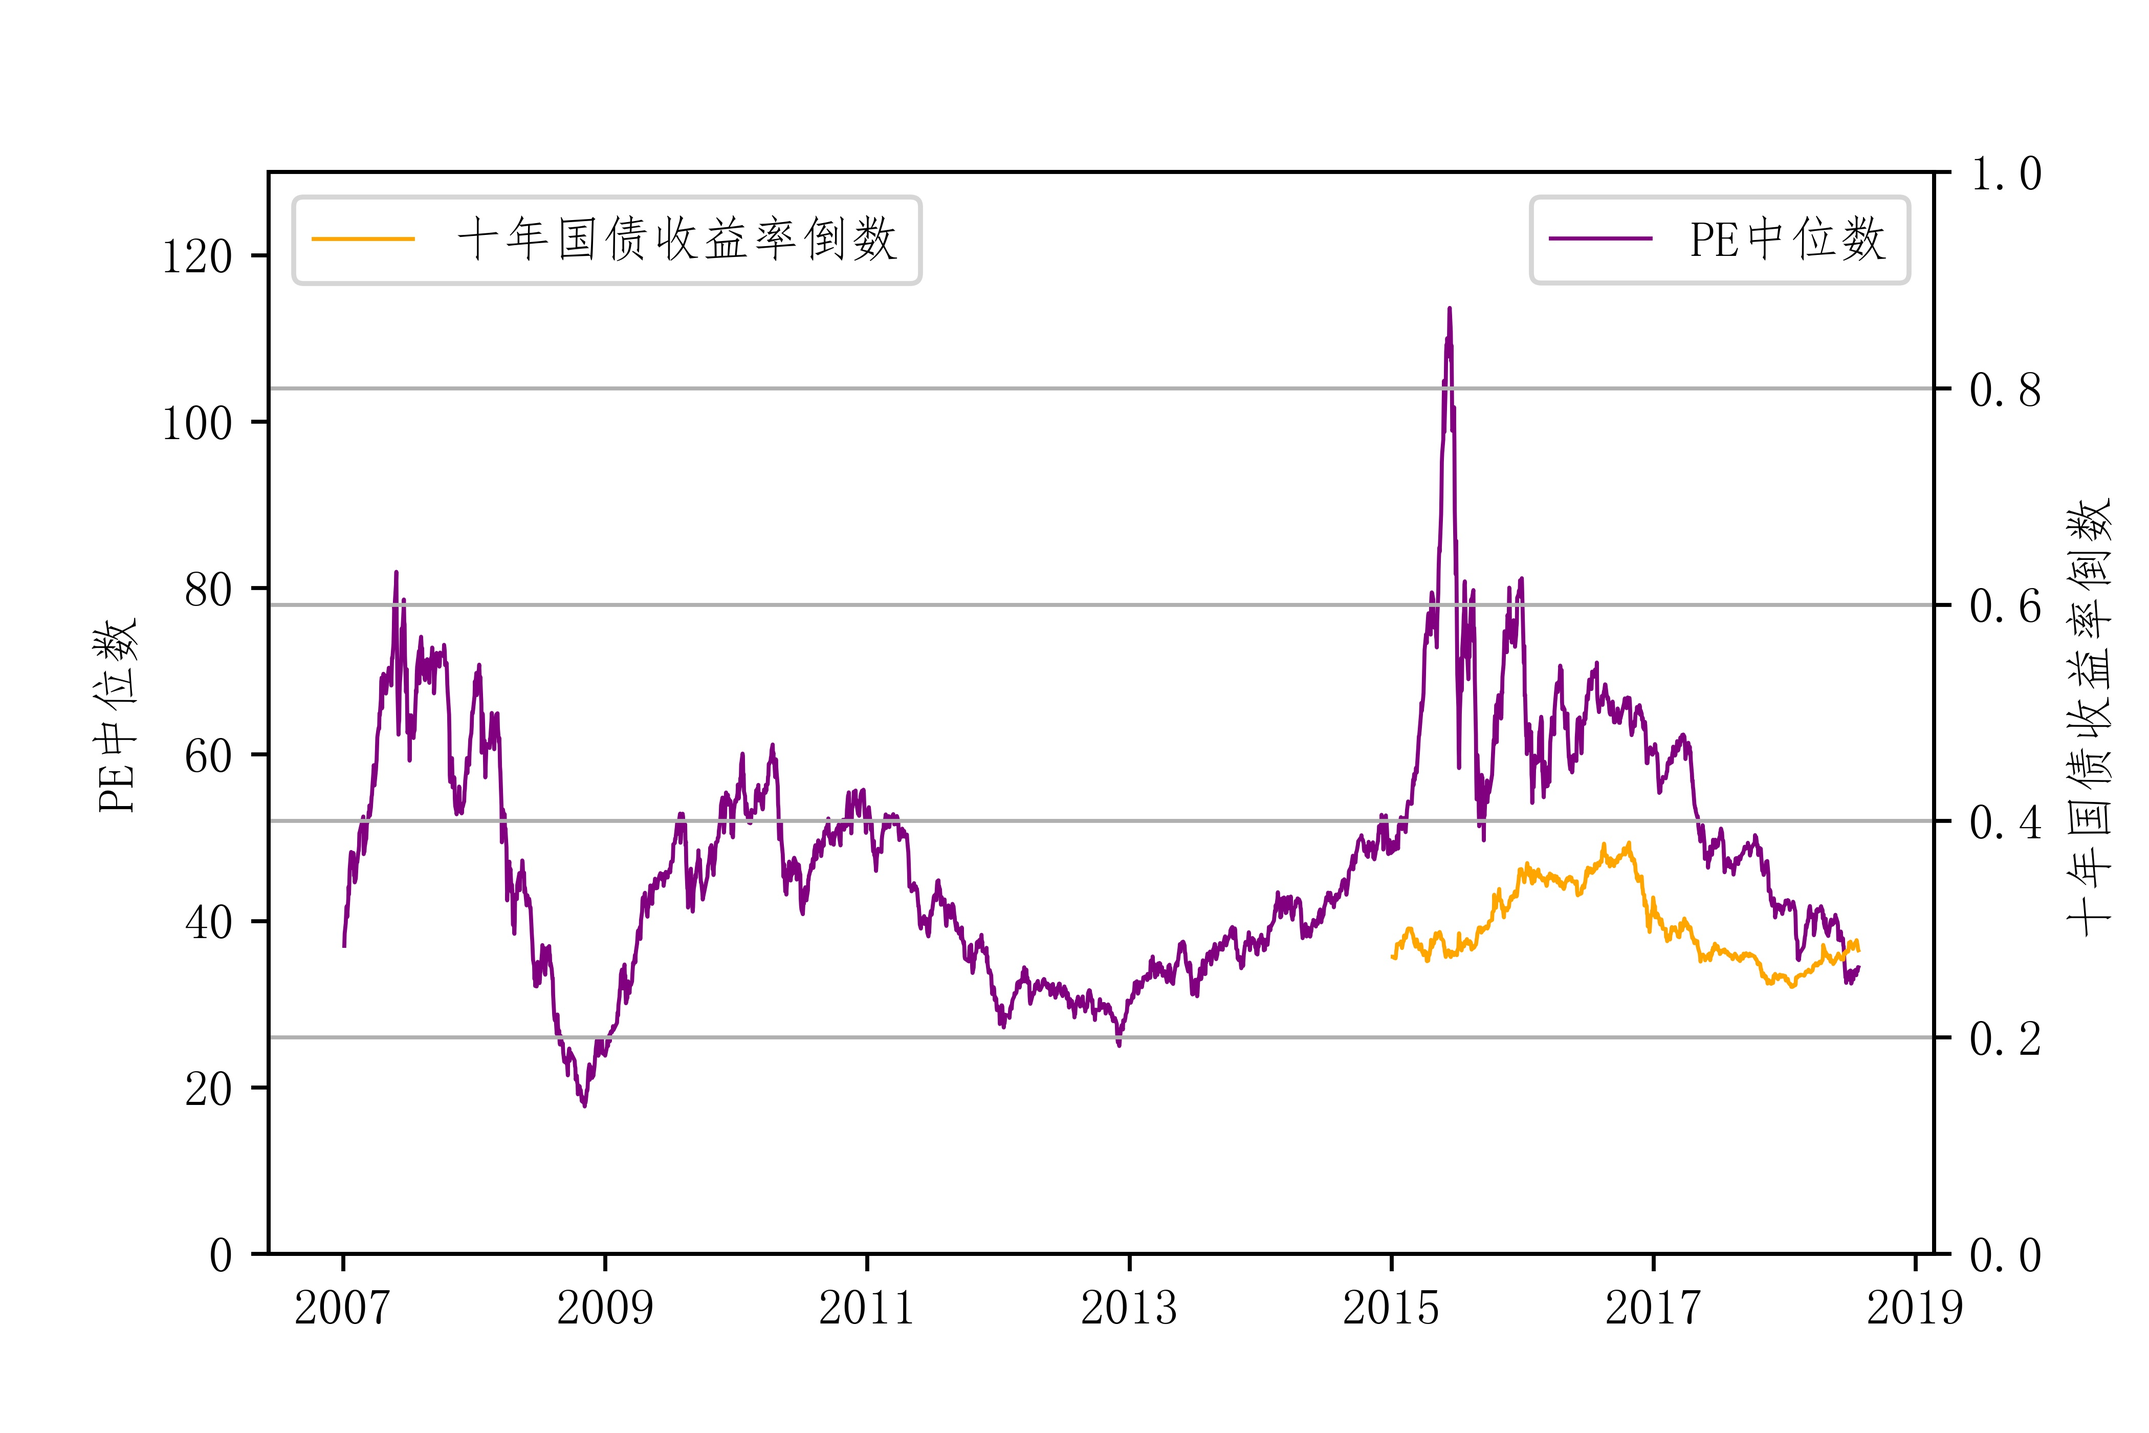
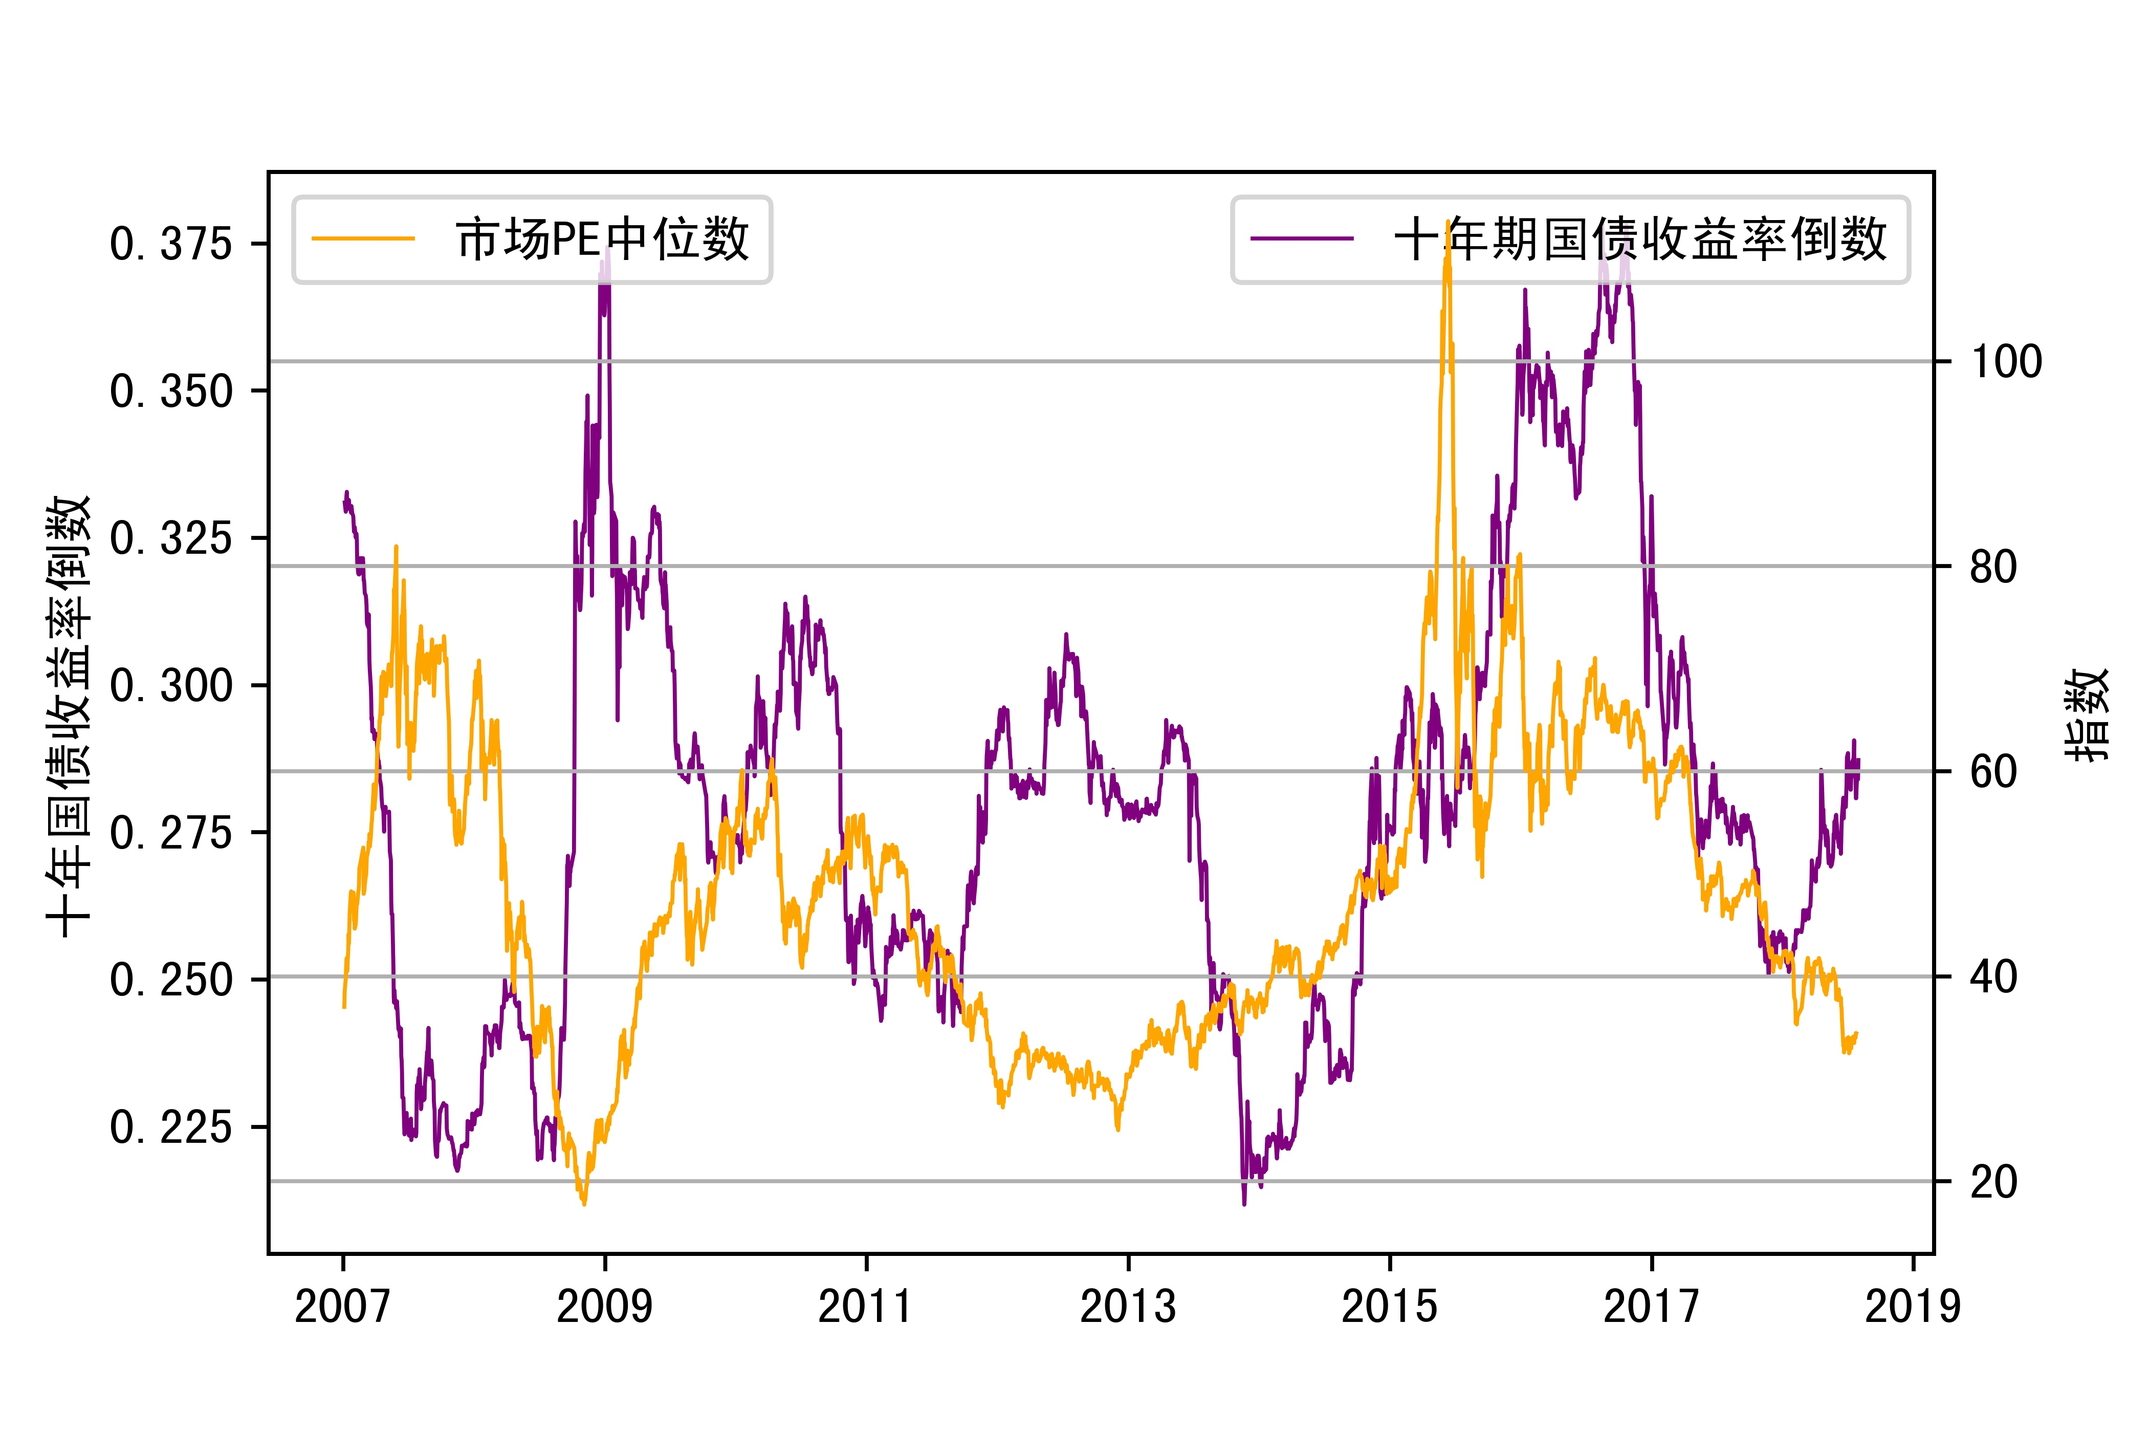
new

diff --git a/Bottom.py b/Bottom.py
@@ -16,20 +16,22 @@ from matplotlib.font_manager import _rebuild
 _rebuild()
 plt.rcParams['font.sans-serif'] = ['SimHei'] 
 plt.rcParams['axes.unicode_minus'] = False 
+
 '''
 from WindPy import * 
 w.start()
+#十年国债到期收益率
 nationbonds = w.edb("M0325687", "2007-01-04", "2018-07-30")
 w.close()
 '''
 
 # 导入数据
-price_data = pd.read_pickle('/Users/trevor/Downloads/price.pkl')
-indicator_data = pd.read_pickle('/Users/trevor/Downloads/indicator.pkl')
-market_index = pd.read_excel('/Users/trevor/Downloads/市场底部特征研究.xlsx',sheet_name='沪深300')
-M2_data = pd.read_excel('/Users/trevor/Downloads/M2指标.xlsx')
-IPO_data = pd.read_excel('/Users/trevor/Downloads/A股上市时间.xlsx')
-amount_data = pd.read_csv('/Users/trevor/Downloads/eodprices.csv')
+price_data = pd.read_pickle('/Users/trevor/Downloads/市场底部研究数据/price.pkl')
+indicator_data = pd.read_pickle('/Users/trevor/Downloads/市场底部研究数据/indicator.pkl')
+market_index = pd.read_excel('/Users/trevor/Downloads/市场底部研究数据/市场底部特征研究.xlsx',sheet_name='沪深300')
+M2_data = pd.read_excel('/Users/trevor/Downloads/市场底部研究数据/M2指标.xlsx')
+IPO_data = pd.read_excel('/Users/trevor/Downloads/市场底部研究数据/A股上市时间.xlsx')
+amount_data = pd.read_csv('/Users/trevor/Downloads/市场底部研究数据/eodprices.csv')
 
 ###############################################################################
 '''
@@ -40,6 +42,8 @@ finance_data = pd.merge(price_data,indicator_data,on=['S_INFO_WINDCODE','TRADE_D
 amount_data['TRADE_DT'] = amount_data['TRADE_DT'].apply(lambda x:str(x))
 finance_data = pd.merge(finance_data,amount_data,how='left',on=['S_INFO_WINDCODE','TRADE_DT'])
 
+# finance_data 所有数据
+
 #提取日收盘价
 stock_close_data = pd.pivot_table(finance_data,values='S_DQ_CLOSE',index='S_INFO_WINDCODE',columns='TRADE_DT')                   
 stock_close_data = stock_close_data.sort_index(axis=1)
@@ -47,17 +51,48 @@ stock_close_data.columns = pd.DatetimeIndex(stock_close_data.columns)
 stock_close_number = stock_close_data.count(axis=0)
 
 
+#绘图函数
+
+def Plot_Stock(data_a,data_b,label_a,label_name):
+    # c,d为调整系数，是上证综指和深证成指头部对齐
+    c = market_index.iloc[0,-1]
+    d = market_index.iloc[2,-1]
+    
+    fig = plt.figure()
+    ax1 = fig.add_subplot(111)
+    ax1.grid(False)
+    ax1.bar(data_a.index,data_a,width=3.5,linewidth=3,color='yellowgreen',label=label_a,zorder=1)
+    ax1.set_ylabel(label_name)
+    ax1.legend(loc='upper right')
+    
+    ax2 = ax1.twinx()
+    ax2.grid(True)
+    ax2.plot(data_b.columns,data_b.iloc[0,:],color='red',linewidth=0.8,label='上证综指',zorder=5)
+    ax2.plot(data_b.columns,data_b.iloc[2,:]*c/d,color='blue',linewidth=0.8,label='深证成指',zorder=6)
+    ax2.set_ylabel('指数')
+    ax2.set_ylim(0,7000)
+    ax2.legend(loc='upper left')
+    ax2.set_xlabel('时间')
+    plt.savefig(label_name+'.jpg',dpi=700)
+
+
+
+
 ###############################################################################
 '''
 1.低价股比例
 '''
 #筛选出低价股
-low_price=2
+low_price=2 #低价股标准
 low_price_data = stock_close_data[stock_close_data<low_price]
 #低价股数量
 low_price_number = low_price_data.count(axis=0)
-low_price_percent = low_price_number/stock_close_number
-low_price_percent.index = pd.DatetimeIndex(low_price_percent.index)
+low_price_percent = low_price_number/stock_close_number*100
+low_price_percent.index = pd.DatetimeIndex(low_price_percent.index) # pd.Series
+
+#绘图
+Plot_Stock(data_a=low_price_percent,data_b=market_index,label_a='低价股比例',label_name='全市场低价股占比')
+
 
 ###############################################################################
 '''
@@ -75,6 +110,10 @@ low_PB_number = low_PB_data.count(axis=0)
 low_PB_percent = low_PB_number/stock_PB_number*100
 low_PB_percent.index = pd.DatetimeIndex(low_PB_percent.index)
 
+#绘图
+Plot_Stock(data_a=low_PB_percent,data_b=market_index,label_a='破净股比例',label_name='全市场破净股比例')
+
+
 
 ###############################################################################
 '''
@@ -84,23 +123,43 @@ low_PB_percent.index = pd.DatetimeIndex(low_PB_percent.index)
 M2_data.set_index('指标名称',inplace=True)
 M2_data = M2_data.drop('频率',axis=1)
 M2_data = M2_data.T
+M2_data.index = pd.DatetimeIndex(M2_data.index)
 
 #提取市值数据
 market_value_data = pd.pivot_table(finance_data,values='S_VAL_MV',index='S_INFO_WINDCODE',columns='TRADE_DT')
 market_value_data = market_value_data.sort_index(axis=1)
 market_value_median = market_value_data.median(axis=0)
 
+#将市值数据调整为月度数据
 market_value_median = market_value_median.reset_index()
 market_value_median['MONTH'] = market_value_median['TRADE_DT'].apply(lambda x:x[:6])
 market_value_median = pd.merge(market_value_median.groupby(['MONTH'])['TRADE_DT'].max().reset_index(),market_value_median,on=['TRADE_DT'],how='left')
 market_value_median.drop(['MONTH_x','MONTH_y'],axis=1,inplace=True)
+market_value_median.columns = ['TRADE_DT','PE_MEDIAN']
+market_value_median = market_value_median.set_index('TRADE_DT')
+market_value_median.index = pd.DatetimeIndex(market_value_median.index)
 
-temp_median = market_value_median.drop(138,axis=0)
-temp_M2 = M2_data.reset_index()
-temp_median.drop('TRADE_DT',axis=1,inplace=True)
-temp_M2.drop('index',axis=1,inplace=True)
 
-M2_MV_ratio = temp_M2.values/temp_median.values
+assert len(M2_data) == len(market_value_median[:-1])
+M2_MV_ratio = M2_data.values/market_value_median.values[:-1]
+
+
+fig = plt.figure()
+ax1 = fig.add_subplot(111)
+ax1.grid(False)
+ax1.plot(market_value_median.index,market_value_median, color='purple',linewidth=0.8,label='总市值中位数',zorder=3)
+ax1.set_ylabel('总市值中位数')
+ax1.legend(loc='upper right')
+
+ax2 = ax1.twinx()
+ax2.grid(True)
+ax2.plot(market_value_median.index[:-1],M2_MV_ratio,color='orange',linewidth=0.8,label='M2/总市值中位数',zorder=4)
+ax2.set_ylabel('M2/总市值中位数')
+ax2.legend(loc='upper left')
+ax2.set_xlabel('时间')
+plt.savefig('M2_总市值中位数.jpg',dpi=700)
+
+
 ###############################################################################
 '''
 4.PE中位数&十年国债收益率倒数
@@ -112,12 +171,59 @@ stock_PE_data = stock_PE_data.sort_index(axis=1)
 stock_PE_data.columns = pd.DatetimeIndex(stock_PE_data.columns)
 stock_PE_median = stock_PE_data.median(axis=0)
 stock_PE_median.index = pd.DatetimeIndex(stock_PE_median.index)
-stock_PE_average = stock_PE_data.mean(axis=0)
-stock_PE_average.index = pd.DatetimeIndex(stock_PE_average.index)
 
 #十年国债收益率
+'''
 nationbonds_interest = pd.Series(np.array(nationbonds.Data).reshape(-1),index=nationbonds.Times)
 nationbonds_interest.index = pd.DatetimeIndex(nationbonds_interest.index)
+'''
+nationbonds_interest = pd.read_csv('/Users/trevor/Downloads/十年期国债.csv')
+nationbonds_interest.columns = ['S_INFO_WINDCODE','INTEREST']
+nationbonds_interest = nationbonds_interest.set_index('S_INFO_WINDCODE')
+nationbonds_interest.index = pd.DatetimeIndex(nationbonds_interest.index)
+
+
+fig = plt.figure()
+ax1 = fig.add_subplot(111)
+ax1.grid(False)
+ax1.plot(stock_PE_median.index,stock_PE_median, color='purple',linewidth=0.8,label='市场PE中位数',zorder=3)
+ax1.set_ylabel('市场PE中位数')
+ax1.legend(loc='upper right')
+
+ax2 = ax1.twinx()
+ax2.grid(True)
+ax2.plot(nationbonds_interest.index,nationbonds_interest,color='orange',linewidth=0.8,label='十年期国债收益率倒数',zorder=4)
+ax2.set_ylabel('十年期国债收益率倒数')
+ax2.legend(loc='upper left')
+ax2.set_xlabel('时间')
+plt.savefig('PE中位数和十年国债收益率倒数的⽐较.jpg',dpi=700)
+
+###############################################################################
+
+def Plot_Volume(data_a,data_b,index_data,label_a,label_b,label_name):
+    a = data_a.values[0]
+    b = data_b.values[0]
+    
+    c = market_index.iloc[0,-1]
+    d = market_index.iloc[2,-1]
+    
+    fig = plt.figure()
+    ax1 = fig.add_subplot(111)
+    ax1.grid(False)
+    ax1.bar(data_a.index,data_a*1.3*b/a,width=3.5,linewidth=0.8,color='yellowgreen',label=label_a,zorder=1)
+    ax1.bar(data_b.index,data_b,width=3.5,linewidth=0.8,color='orange',label=label_b,zorder=2)
+    ax1.set_ylabel(label_name)
+    ax1.legend(loc='upper right')
+    
+    ax2 = ax1.twinx()
+    ax2.grid(True)
+    ax2.plot(index_data.columns,index_data.iloc[0,:],color='red',linewidth=0.8,label='上证综指',zorder=5)
+    ax2.plot(index_data.columns,index_data.iloc[2,:]*c/d,color='blue',linewidth=0.8,label='深证成指',zorder=6)
+    ax2.set_ylabel('指数')
+    ax2.set_ylim(0,7000)
+    ax2.legend(loc='upper left')
+    ax2.set_xlabel('时间')
+    plt.savefig(label_name+'.jpg',dpi=700)
 
 ###############################################################################
 '''
@@ -136,9 +242,13 @@ total_volume.index = pd.DatetimeIndex(total_volume.index)
 total_amount = stock_amount_data.sum(axis=0)
 total_amount.index = pd.DatetimeIndex(total_amount.index)
 
+#绘图
+Plot_Volume(data_a=total_amount,data_b=total_volume,index_data=market_index,label_a='市场总成交额',label_b='市场总成交量',label_name='市场成交量&成交额')
+
+
 ###############################################################################
 '''
-6.个股成交额&成交量（个股流动性）
+6.个股低成交额&成交量占比（个股流动性）
 '''
 #筛选低成交量&成交额个股
 low_volume = 1000 #(手)
@@ -152,6 +262,10 @@ low_amount_stock = stock_amount_data[stock_amount_data<low_amount]
 low_amount_number = low_amount_stock.count(axis=0)
 low_amount_percent = low_amount_number/stock_close_number
 low_amount_percent.index = pd.DatetimeIndex(low_amount_percent.index)
+
+#绘图
+Plot_Volume(data_a=low_amount_percent,data_b=low_volume_percent,index_data=market_index,label_a='低成交额个股占比',label_b='低成交量个股占比',label_name='低成交量&成交额股票占比')
+
 
 ###############################################################################
 '''
@@ -183,12 +297,36 @@ high = price_max[index_max<index_min]
 low = price_min[index_max<index_min]
 decline_percent = (high - low)/high
 decline_median = decline_percent.median(axis=0)
-decline_median.index = pd.DatetimeIndex(start='2006-12-30',end='2018-07-01',freq='M')
+decline_median.index = pd.DatetimeIndex(start='2007-01-01',end='2018-08-01',freq='M')
+
+
+#绘图
+c = market_index.iloc[0,-1]
+d = market_index.iloc[2,-1]
+
+#assert stock_close_data.columns.shape==lower_ipo_percent.shape
+fig = plt.figure()
+ax1 = fig.add_subplot(111)
+ax1.grid(False)
+ax1.bar(decline_median.index,decline_median,width=14,linewidth=10,color='yellowgreen',label='个股最大跌幅中位数',zorder=1)
+ax1.set_ylabel('个股最大跌幅中位数')#低成交额占比(小于100W)
+ax1.legend(loc='upper right')
+
+ax2 = ax1.twinx()
+ax2.grid(True)
+ax2.plot(market_index.columns,market_index.iloc[0,:],color='red',linewidth=0.8,label='上证综指',zorder=5)
+ax2.plot(market_index.columns,market_index.iloc[2,:]*c/d,color='blue',linewidth=0.8,label='深证成指',zorder=6)
+ax2.set_ylabel('指数')
+ax2.set_ylim(0,7000)
+ax2.legend(loc='upper left')
+ax2.set_xlabel('时间')
+plt.savefig('个股单月最大跌幅中位数.jpg',dpi=700)
+
 
 
 ###############################################################################
 '''
-8.次新股(上市四个月内)PE（市场人气）
+8.次新股(上市一年内)PE（市场人气）
 '''
 #获取所有股票发行价格和发行时间
 IPO_data['IPO_DATE'] = pd.DatetimeIndex(IPO_data['IPO_DATE'])
@@ -202,9 +340,8 @@ for day in stock_close_data.columns:
 
 subnew_number = subnew_stock.count(axis=0)
 
-
+#计算次新股PE中位数
 subnew_PE_median = []
-subnew_PE_average = []
 for day in stock_close_data.columns:
     temp_PE = stock_PE_data[day].reset_index()
     temp_PE.columns=['S_INFO_WINDCODE','PE']
@@ -212,16 +349,36 @@ for day in stock_close_data.columns:
     temp_subnew.columns = ['S_INFO_WINDCODE']
     pe = pd.merge(temp_subnew,temp_PE,how='left',on='S_INFO_WINDCODE')
     subnew_PE_median.append(pe.iloc[:,-1].median(axis=0))
-    subnew_PE_average.append(pe.iloc[:,-1].mean(axis=0))
-    
-subnew_PE_median = np.array(subnew_PE_median)
-subnew_PE_average = np.array(subnew_PE_average)
 
+#次新股PE中位数    
+subnew_PE_median = np.array(subnew_PE_median)
+subnew_PE_median = pd.Series(subnew_PE_median,index=stock_PE_median.index)
+
+#次新股PE溢价
 differences_PE_median = subnew_PE_median-stock_PE_median.values
-differences_PE_average = subnew_PE_average-stock_PE_average.values
+
+
+fig = plt.figure()
+ax1 = fig.add_subplot(111)
+ax1.grid(False)
+ax1.bar(subnew_PE_median.index,differences_PE_median,width=14,linewidth=10,color='yellowgreen',label='次新股PE中位数溢价',zorder=1)
+ax1.set_ylabel('次新股PE中位数溢价')
+ax1.legend(loc='upper right')
+
+ax2 = ax1.twinx()
+ax2.grid(True)
+ax2.plot(subnew_PE_median.index,subnew_PE_median,color='purple',linewidth=0.8,label='次新股PE中位数',zorder=5)
+ax2.plot(stock_PE_median.index,stock_PE_median,color='orange',linewidth=0.8,label='市场PE中位数',zorder=6)
+ax2.set_ylabel('PE中位数')
+ax2.legend(loc='upper left')
+ax2.set_xlabel('时间')
+plt.savefig('次新股PE中位数.jpg',dpi=700)
+
+
+
 ###############################################################################
 '''
-9. 股票破发率（市场人气）
+9. 次新股破发率（市场人气）
 '''
 #时间横截面破发股比例
 def Lower_Stock(IPO_data,subnew_stock,stock_close_data,day):
@@ -247,11 +404,10 @@ lower_ipo_stock = []
 for day in stock_close_data.columns:
     lower_ipo_stock.append(Lower_Stock(IPO_data,subnew_stock,stock_close_data,day))
 
-
+#次新股破发比例
 lower_ipo_percent = np.array(lower_ipo_stock)/subnew_number.values*100
+lower_ipo_percent = pd.Series(lower_ipo_percent,index=stock_close_data.columns)
 
-
-###############################################################################
 
 c = market_index.iloc[0,-1]
 d = market_index.iloc[2,-1]
@@ -260,24 +416,19 @@ d = market_index.iloc[2,-1]
 fig = plt.figure()
 ax1 = fig.add_subplot(111)
 ax1.grid(False)
-ax1.bar(decline_median.index,decline_median,width=10,linewidth=10,color='yellowgreen',label='个股单月最大跌幅中位数',zorder=1)
-#ax1.bar(low_volume_percent.index,low_volume_percent/1.5,width=3.5,linewidth=0.8,color='orange',label='低成交量股票占比',zorder=2)
-#ax1.plot(subnew_PE_median.index,subnew_PE_median, color='purple',linewidth=0.8,label='次新股PE中位数',zorder=3)
-ax1.set_ylabel('个股单月最大跌幅中位数')#低成交额占比(小于100W)
-#ax1.set_ylim(0,130)
+ax1.bar(lower_ipo_percent.index,lower_ipo_percent,width=3.5,linewidth=0.8,color='yellowgreen',label='次新股破发率',zorder=2)
+ax1.set_ylabel('次新股破发率')#低成交额占比(小于100W)
 ax1.legend(loc='upper right')
 
 ax2 = ax1.twinx()
 ax2.grid(True)
-#ax2.plot(stock_PE_average.index,subnew_PE_average, color='purple',linewidth=0.8,label='次新股PE平均值',zorder=3)
-#ax2.plot(stock_PE_average.index,stock_PE_average,color='orange',linewidth=0.8,label='市场PE平均值',zorder=4)
 ax2.plot(market_index.columns,market_index.iloc[0,:],color='red',linewidth=0.8,label='上证综指',zorder=5)
 ax2.plot(market_index.columns,market_index.iloc[2,:]*c/d,color='blue',linewidth=0.8,label='深证成指',zorder=6)
 ax2.set_ylabel('指数')
-#ax2.set_ylim(0,7000)
+ax2.set_ylim(0,7000)
 ax2.legend(loc='upper left')
 ax2.set_xlabel('时间')
-plt.savefig('个股单月最大跌幅中位数.jpg',dpi=700)
+plt.savefig('次新股破发率.jpg',dpi=700)
 
 ####################################################################
 
